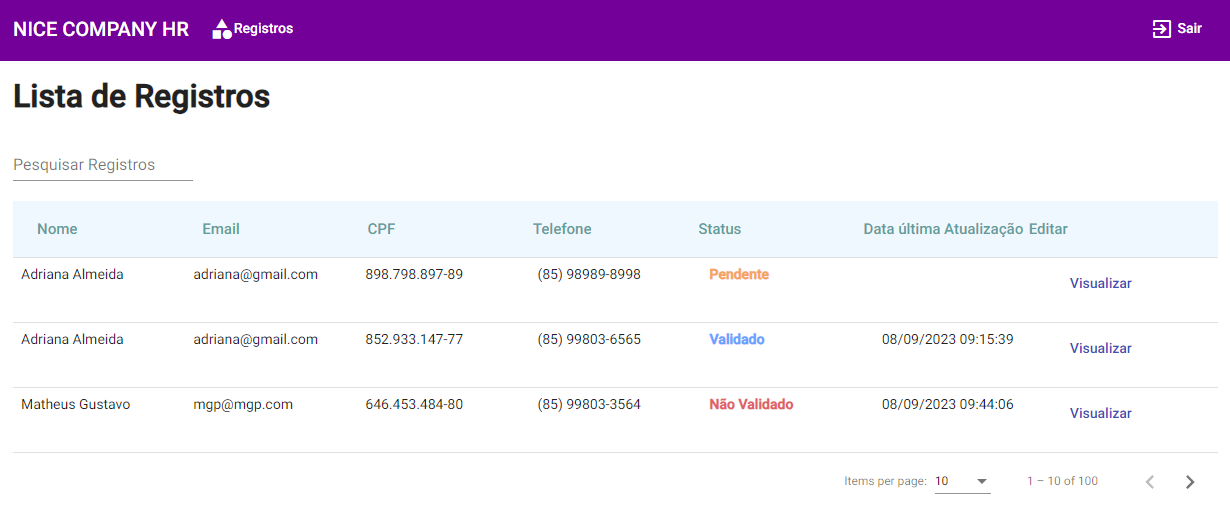
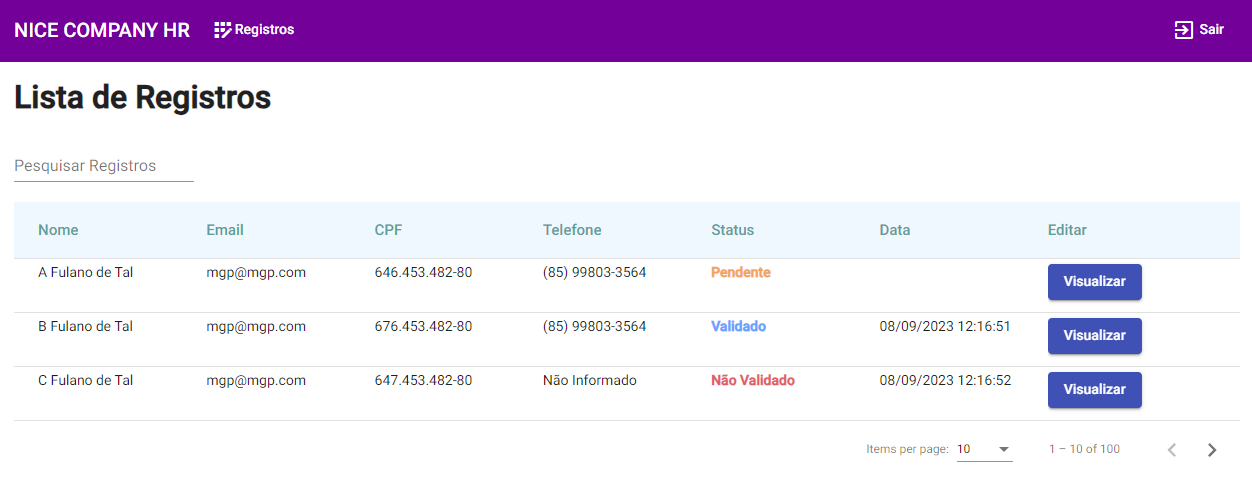
FEAT: Paginator,knowledge field

diff --git a/src/app/modules/time-clock/time-clock-form/time-clock-form.component.html b/src/app/modules/time-clock/time-clock-form/time-clock-form.component.html
@@ -71,13 +71,21 @@
       <div>
         <mat-form-field appearance="outline" class="myinput">
           <mat-label>Conhecimentos</mat-label>
-          <mat-chip-list #chipGrid aria-label="Conhecimentos">
-            <mat-chip *ngFor="let c of conhecimentos" (removed)="remove(c)">
+          <!-- <mat-chip-list #chipGrid aria-label="Conhecimentos">
+           <mat-chip *ngFor="let c of conhecimentos" (removed)="remove(c)">
               {{ c }}
               <button matChipRemove [attr.aria-label]="'remove ' + c">
                 <mat-icon>cancel</mat-icon>
               </button>
             </mat-chip>
+          </mat-chip-list>-->
+          <mat-chip-list #chipGrid>
+            <ng-container *ngFor="let c of conhecimentos">
+              <mat-chip class="cardinal-colors" (click)="remove(c)">
+                {{ c }}
+                <mat-icon class="mat-chip-remove">cancel</mat-icon>
+              </mat-chip>
+            </ng-container>
           </mat-chip-list>
           <input
             matInput
@@ -91,7 +99,7 @@
           <mat-error *ngIf="hasError('knowledges', 'required')"
             >Conhecimentos é requerido</mat-error
           >
-          <mat-error *ngIf="hasError('cpf', 'minlength')"
+          <mat-error *ngIf="hasError('knowledges', 'minlength')"
             >Conhecimentos precisa ter no mínimo 1
           </mat-error>
           <mat-autocomplete

diff --git a/src/app/modules/time-clock/time-clock-list/time-clock-list.component.ts b/src/app/modules/time-clock/time-clock-list/time-clock-list.component.ts
@@ -1,8 +1,9 @@
-import { Component, OnInit } from '@angular/core';
+import { Component, OnInit, ViewChild } from '@angular/core';
 import { MatTableDataSource } from '@angular/material/table';
 import { TimeClockService } from '../time-clock.service';
 import { Router } from '@angular/router';
 import { Register } from '../entities/register.entity';
+import { MatPaginator, PageEvent } from '@angular/material/paginator';
 
 @Component({
   selector: 'app-time-clock-list',
@@ -19,6 +20,7 @@ export class TimeClockListComponent implements OnInit {
     'updatedAt',
     'editar',
   ];
+  @ViewChild(MatPaginator) paginator: MatPaginator;
   registers: Register[] = [];
   public dataSource: MatTableDataSource<Register> =
     new MatTableDataSource<Register>([]);
@@ -38,7 +40,8 @@ export class TimeClockListComponent implements OnInit {
       this.timeClockService.getAll().subscribe({
         next: (retorno: any) => {
           this.registers = retorno.data;
-          this.dataSource = new MatTableDataSource<Register>(this.registers);
+          this.dataSource.data = this.registers;
+          this.dataSource.paginator = this.paginator;
         },
         error: (err) => console.error('An error occurred :', err),
       });
@@ -58,5 +61,4 @@ export class TimeClockListComponent implements OnInit {
       ? 'Não Validado'
       : 'Pendente';
   }
-  public handlePage(e: any) {}
 }

diff --git a/src/app/modules/time-clock/time-clock-form/time-clock-form.component.ts b/src/app/modules/time-clock/time-clock-form/time-clock-form.component.ts
@@ -84,6 +84,16 @@ export class TimeClockFormComponent implements OnInit {
   }
 
   public register() {
+    const isValid = this.allConhecimentos.some((r) =>
+      this.conhecimentos.includes(r)
+    );
+
+    if (!isValid)
+      return this.timeClockService.showMessage(
+        `Valor inválido no campo Conhecimentos`,
+        true
+      );
+
     if (this.form.valid) {
       try {
         this.timeClockService.create(this.form.value).subscribe({
@@ -94,6 +104,7 @@ export class TimeClockFormComponent implements OnInit {
             );
             this.aviso = `Obrigado,entraremos em contato.`;
             this.form.reset();
+            this.conhecimentos = [];
           },
           error: (err) => {
             this.timeClockService.showMessage(`${err.error.message}`, true);
@@ -132,7 +143,7 @@ export class TimeClockFormComponent implements OnInit {
     if (this.conhecimentos.length < 3 && !this.conhecimentos.includes(value)) {
       this.conhecimentos.push(value);
     }
-    //this.form.controls['knowledges'].setValue(null);
+
     this.form.controls['knowledges'].setValue(this.conhecimentos);
   }
   public hasError = (controlName: string, errorName: string) => {

diff --git a/src/app/modules/time-clock/time-clock-list/time-clock-list.component.html b/src/app/modules/time-clock/time-clock-list/time-clock-list.component.html
@@ -67,12 +67,7 @@
         <mat-row *matRowDef="let row; columns: displayedColumns"></mat-row>
       </table>
     </div>
-    <mat-paginator
-      [length]="100"
-      [pageSize]="10"
-      [pageSizeOptions]="[5, 10, 25, 100]"
-      aria-label="Select page"
-    >
+    <mat-paginator [pageSizeOptions]="[5, 10, 15, 20]" showFirstLastButtons>
     </mat-paginator>
   </mat-card>
 </div>
